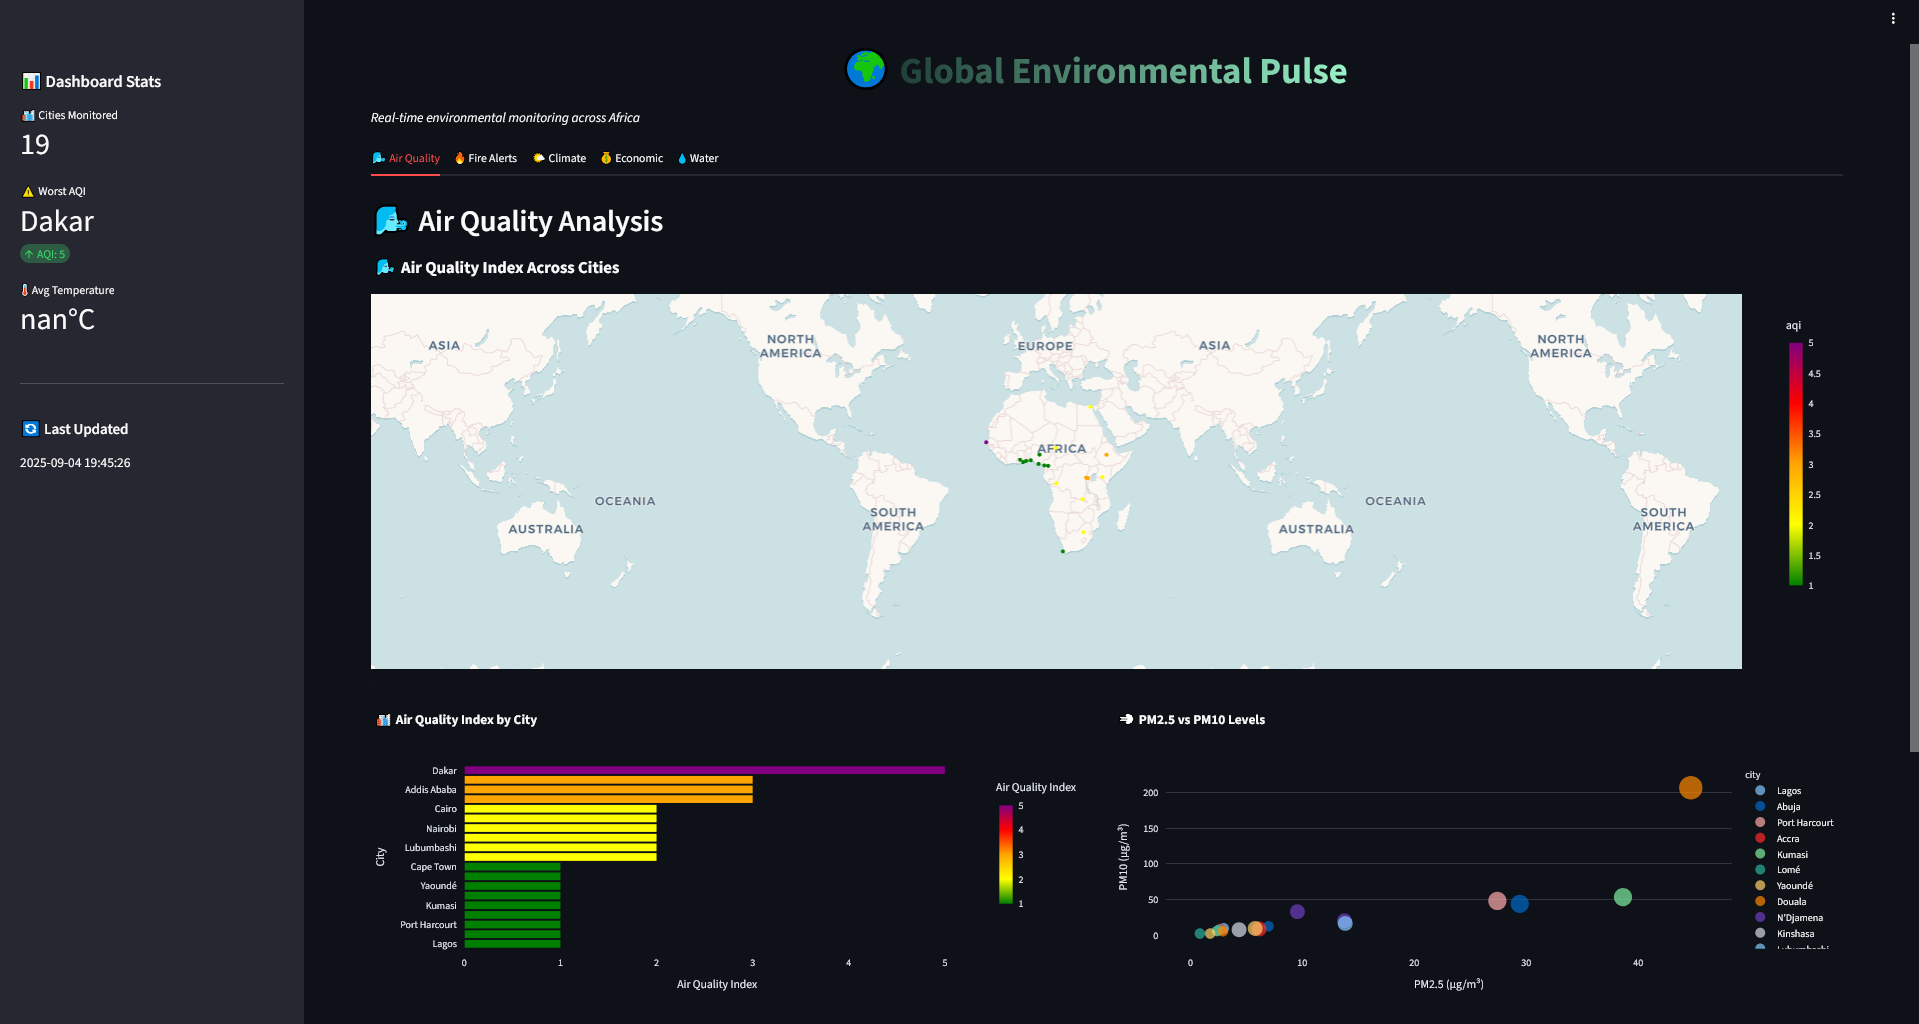
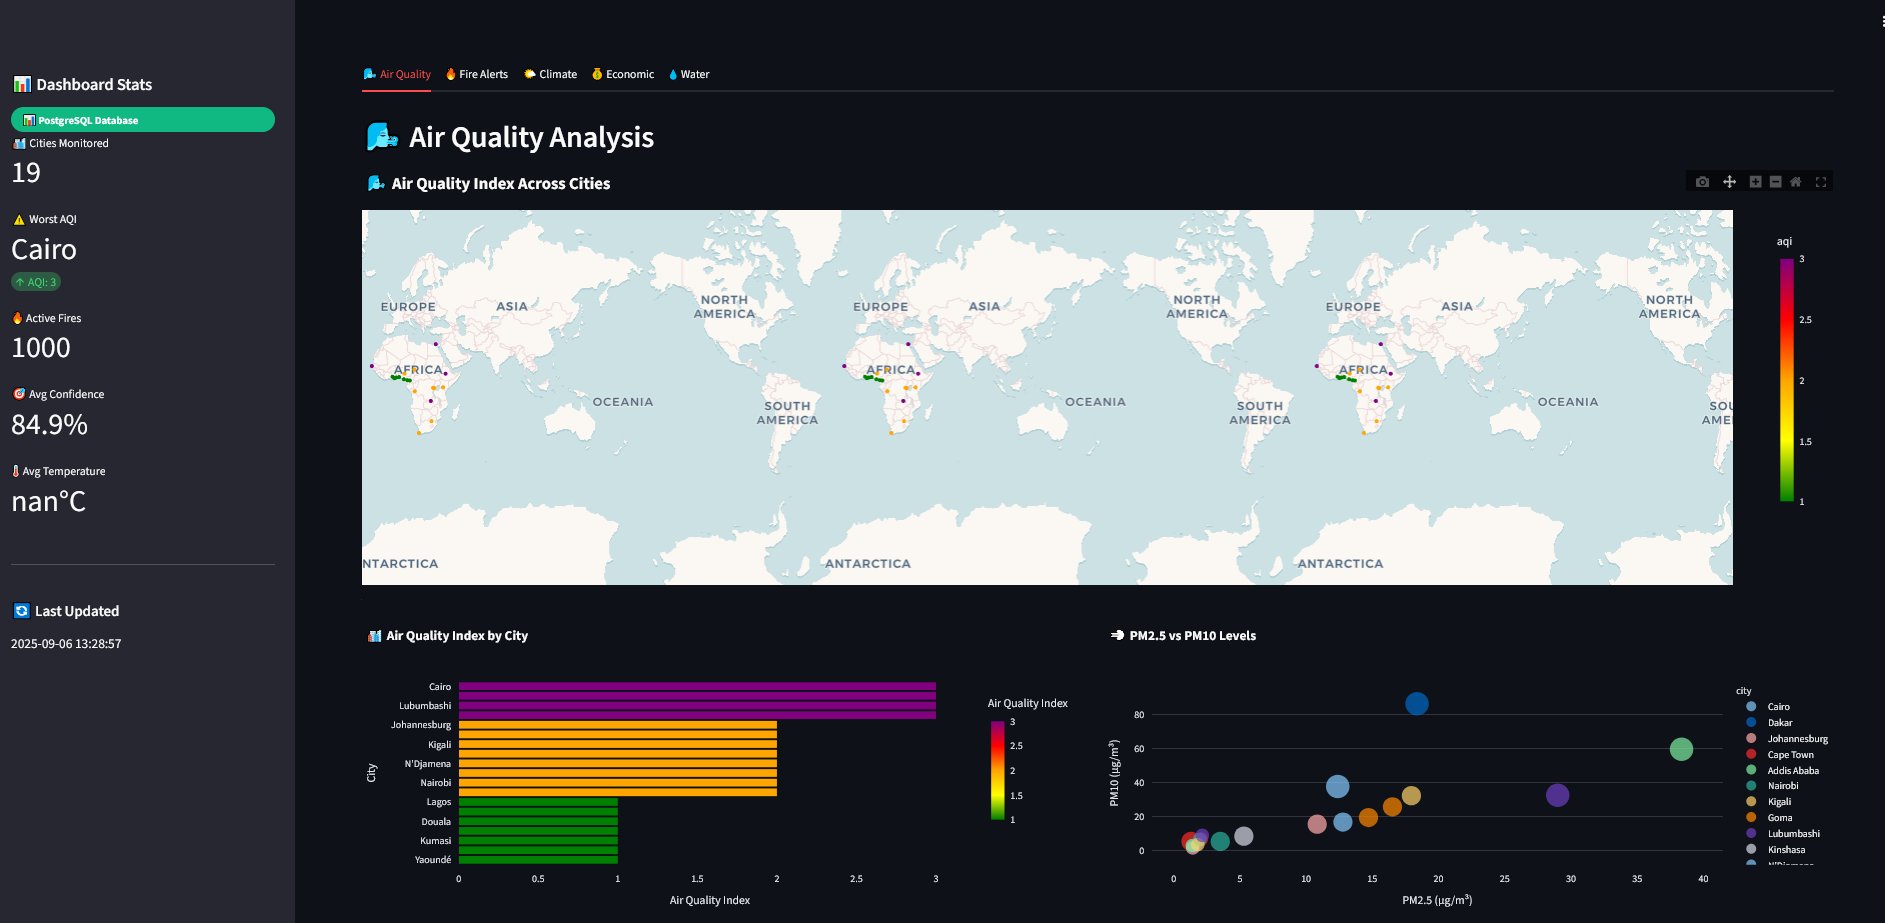
update readm

diff --git a/README.md b/README.md
@@ -4,9 +4,12 @@ A real-time environmental monitoring system that aggregates air quality data, wi
 
 ![alt text](/images/Air%20Quanlity.png)
 
+![alt text](/images/fire.png)
+
 ![alt text](/images/Economie.png)
 
 ![alt text](/images/Water.png)
+
 
 ## 🚀 Project Overview
 
@@ -23,15 +26,15 @@ This platform creates a **comprehensive environmental monitoring system** that c
 ## 🏗 Architecture
 
 ```
-┌─────────────────┐    ┌──────────────────┐    ┌─────────────────┐
-│   Data Sources  │ -> │  Data Pipeline   │ -> │   Dashboard     │
-├─────────────────┤    ├──────────────────┤    ├─────────────────┤
-│ OpenWeatherMap  │    │ data_ingestion.py│    │ Streamlit UI    │
-│ NASA FIRMS      │    │ data_processing  │    │ Plotly Maps     │
-│ Climate APIs    │    │ Error Handling   │    │ Real-time Stats │
-│ Economic Data   │    │ Data Validation  │    │ Multi-tab       │
-│ Water Quality   │    │                  │    │ Visualization   │
-└─────────────────┘    └──────────────────┘    └─────────────────┘
+┌─────────────────┐    ┌──────────────────┐    ┌─────────────────┐    ┌─────────────────┐
+│   Data Sources  │ -> │  Data Pipeline   │ -> │  PostgreSQL DB  │ -> │   Dashboard     │
+├─────────────────┤    ├──────────────────┤    ├─────────────────┤    ├─────────────────┤
+│ OpenWeatherMap  │    │ data_ingestion.py│    │ air_quality     │    │ Streamlit UI    │
+│ NASA FIRMS      │    │ DatabaseManager  │    │ fire_alerts     │    │ Plotly Maps     │
+│ Climate APIs    │    │ Error Handling   │    │ climate_data    │    │ Real-time Stats │
+│ Economic Data   │    │ Data Validation  │    │ economic_data   │    │ Multi-tab       │
+│ Water Quality   │    │ Airflow DAGs     │    │ water_quality   │    │ Visualization   │
+└─────────────────┘    └──────────────────┘    └─────────────────┘    └─────────────────┘
 ```
 
 ## 📋 Features
@@ -117,7 +120,7 @@ environmental-pulse/
 │   └── processed/               # Cleaned, transformed data
 ├── src/
 │   ├── data_ingestion.py        # API data collection pipeline
-│   ├── data_processing.py       # Data cleaning & transformation
+│   ├── database.py              # Data cleaning & transformation
 │   └── dashboard.py             # Streamlit dashboard application
 ├── config/
 │   └── config.py                # Configuration settings
@@ -187,7 +190,7 @@ water_data = collector.get_water_quality_data()
 ### Phase 2: Advanced Data Engineering
 - [ ] **Apache Airflow**: Automated scheduling and workflow management
 - [ ] **Apache Kafka**: Real-time streaming data pipeline
-- [ ] **DuckDB/PostgreSQL**: Proper database implementation
+- ✅ **DuckDB/PostgreSQL**: Proper database implementation
 - [ ] **Data quality monitoring**: Automated data validation and alerting
 
 ### Phase 3: Additional Data Sources
